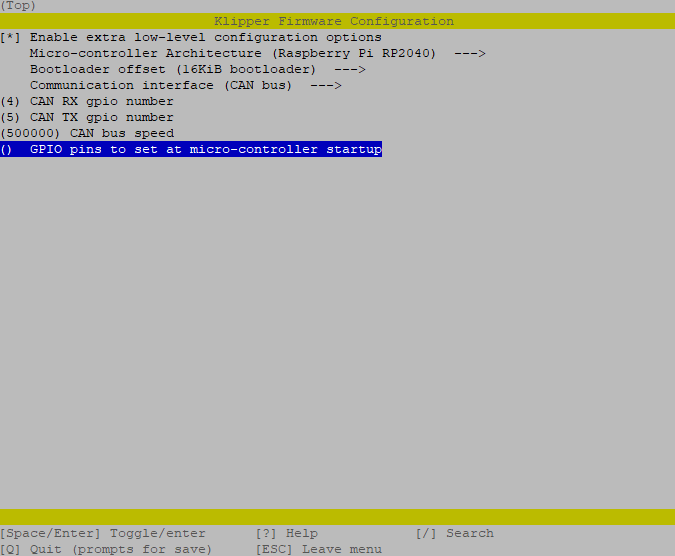
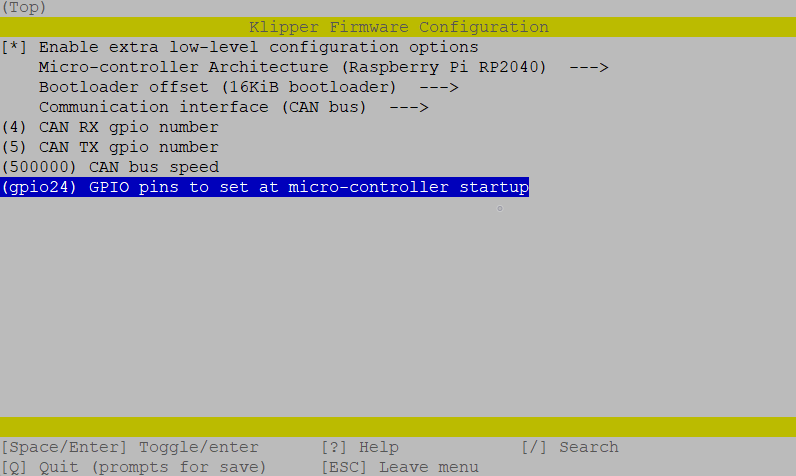
update sb2040 images and flash command

Changed region(s): [[0.0, 0.0, 1.0, 0.4118], [0.0, 0.8529, 1.0, 1.0]]

diff --git a/_includes/custom/can/sb2040_canboot_burn.html b/_includes/custom/can/sb2040_canboot_burn.html
@@ -19,7 +19,7 @@
 
 - Use a USB-C data cable to connect the {{ mcu }} board to the klipper host. 
 
-- Press the boot button to put the {{mcu}} into boot mode. 
+- Press the boot button while inserting the USB cable to put the {{mcu}} into boot mode. 
 
     {% 
     include image.html 
@@ -41,16 +41,11 @@ lsusb
     caption=canburn_cap3
     %}
 
-- Mount the {{mcu}} file system
+- Flash the {{mcu}}
 ```
-sudo mount /dev/sda1 /mnt
-```
-
-- Copy Canboot.uf2 to the {{mcu}}
-```
-sudo cp ~/CanBoot/out/canboot.uf2 /mnt
+sudo make flash FLASH_DEVICE=2e8a:0003
 ```
 
-- This will copy the firmware image we compiled earlier onto the {{mcu}} storage and it will be flashed automatically.
+- This will flash the CanBoot firmware image and restart the {{mcu}}.
 
-- When the /mnt unmounts remove the USB cable, Reboot and continue to compiling Klipper firmware.
+- When the status LED starts blinking, Reboot and continue to compiling Klipper firmware.

diff --git a/_includes/custom/can/sb2040_klipper_compile.html b/_includes/custom/can/sb2040_klipper_compile.html
@@ -36,6 +36,7 @@ make clean
 make menuconfig
 ```
 - Set the following settings
+  - Enable low lever configuration options
   - Micro Controller : Raspberry Pi RP2040
    - Build: 16 Kib bootloader
    - Comm Interface - {{page.com}}
@@ -44,6 +45,7 @@ make menuconfig
   - CAN Rx: GPIO 4
   - CAN Tx: GPIO 5
   {% endif %}
+  - GPIO Pins to set at Startup: gpio24
   {% 
   include image.html 
   file=klipcom_img1
@@ -55,6 +57,11 @@ make menuconfig
 
 - Quit and save the configuration
 
+- Run the make command to compile the firmware
+```
+make -j 4
+```
+
 {% if page.firmware == "usb" %}
 
 #### Flash Klipper firmware with CanBoot over USB
@@ -65,7 +72,7 @@ ls -l /dev/serial/by-id/
 
 - Copy the ID containing 'sb2040'
 
-- Run the make flash command to compile the firmware
+- Run the flash command to compile the firmware
 ```
 python3 ~/CanBoot/scripts/flash_can.py -f ~/klipper/out/klipper.bin -d {Your serial ID here } 
 ```

diff --git a/_includes/custom/can/sb2040_canboot_compile.html b/_includes/custom/can/sb2040_canboot_compile.html
@@ -43,6 +43,8 @@ make menuconfig
   {% if page.firmware == "CAN bus" %}
   - CAN Rx: GPIO 4
   - CAN Tx: GPIO 5
+  - set Enable Status LED
+  - Status LED pin: gpio24
   {% endif %}
 
     {% 
@@ -57,6 +59,6 @@ make menuconfig
 
 - Run the make command to compile the firmware
 ```
-make
+make -j 4
 ```
 - You should now have a canboot.bin file at ~/CanBoot/out/
